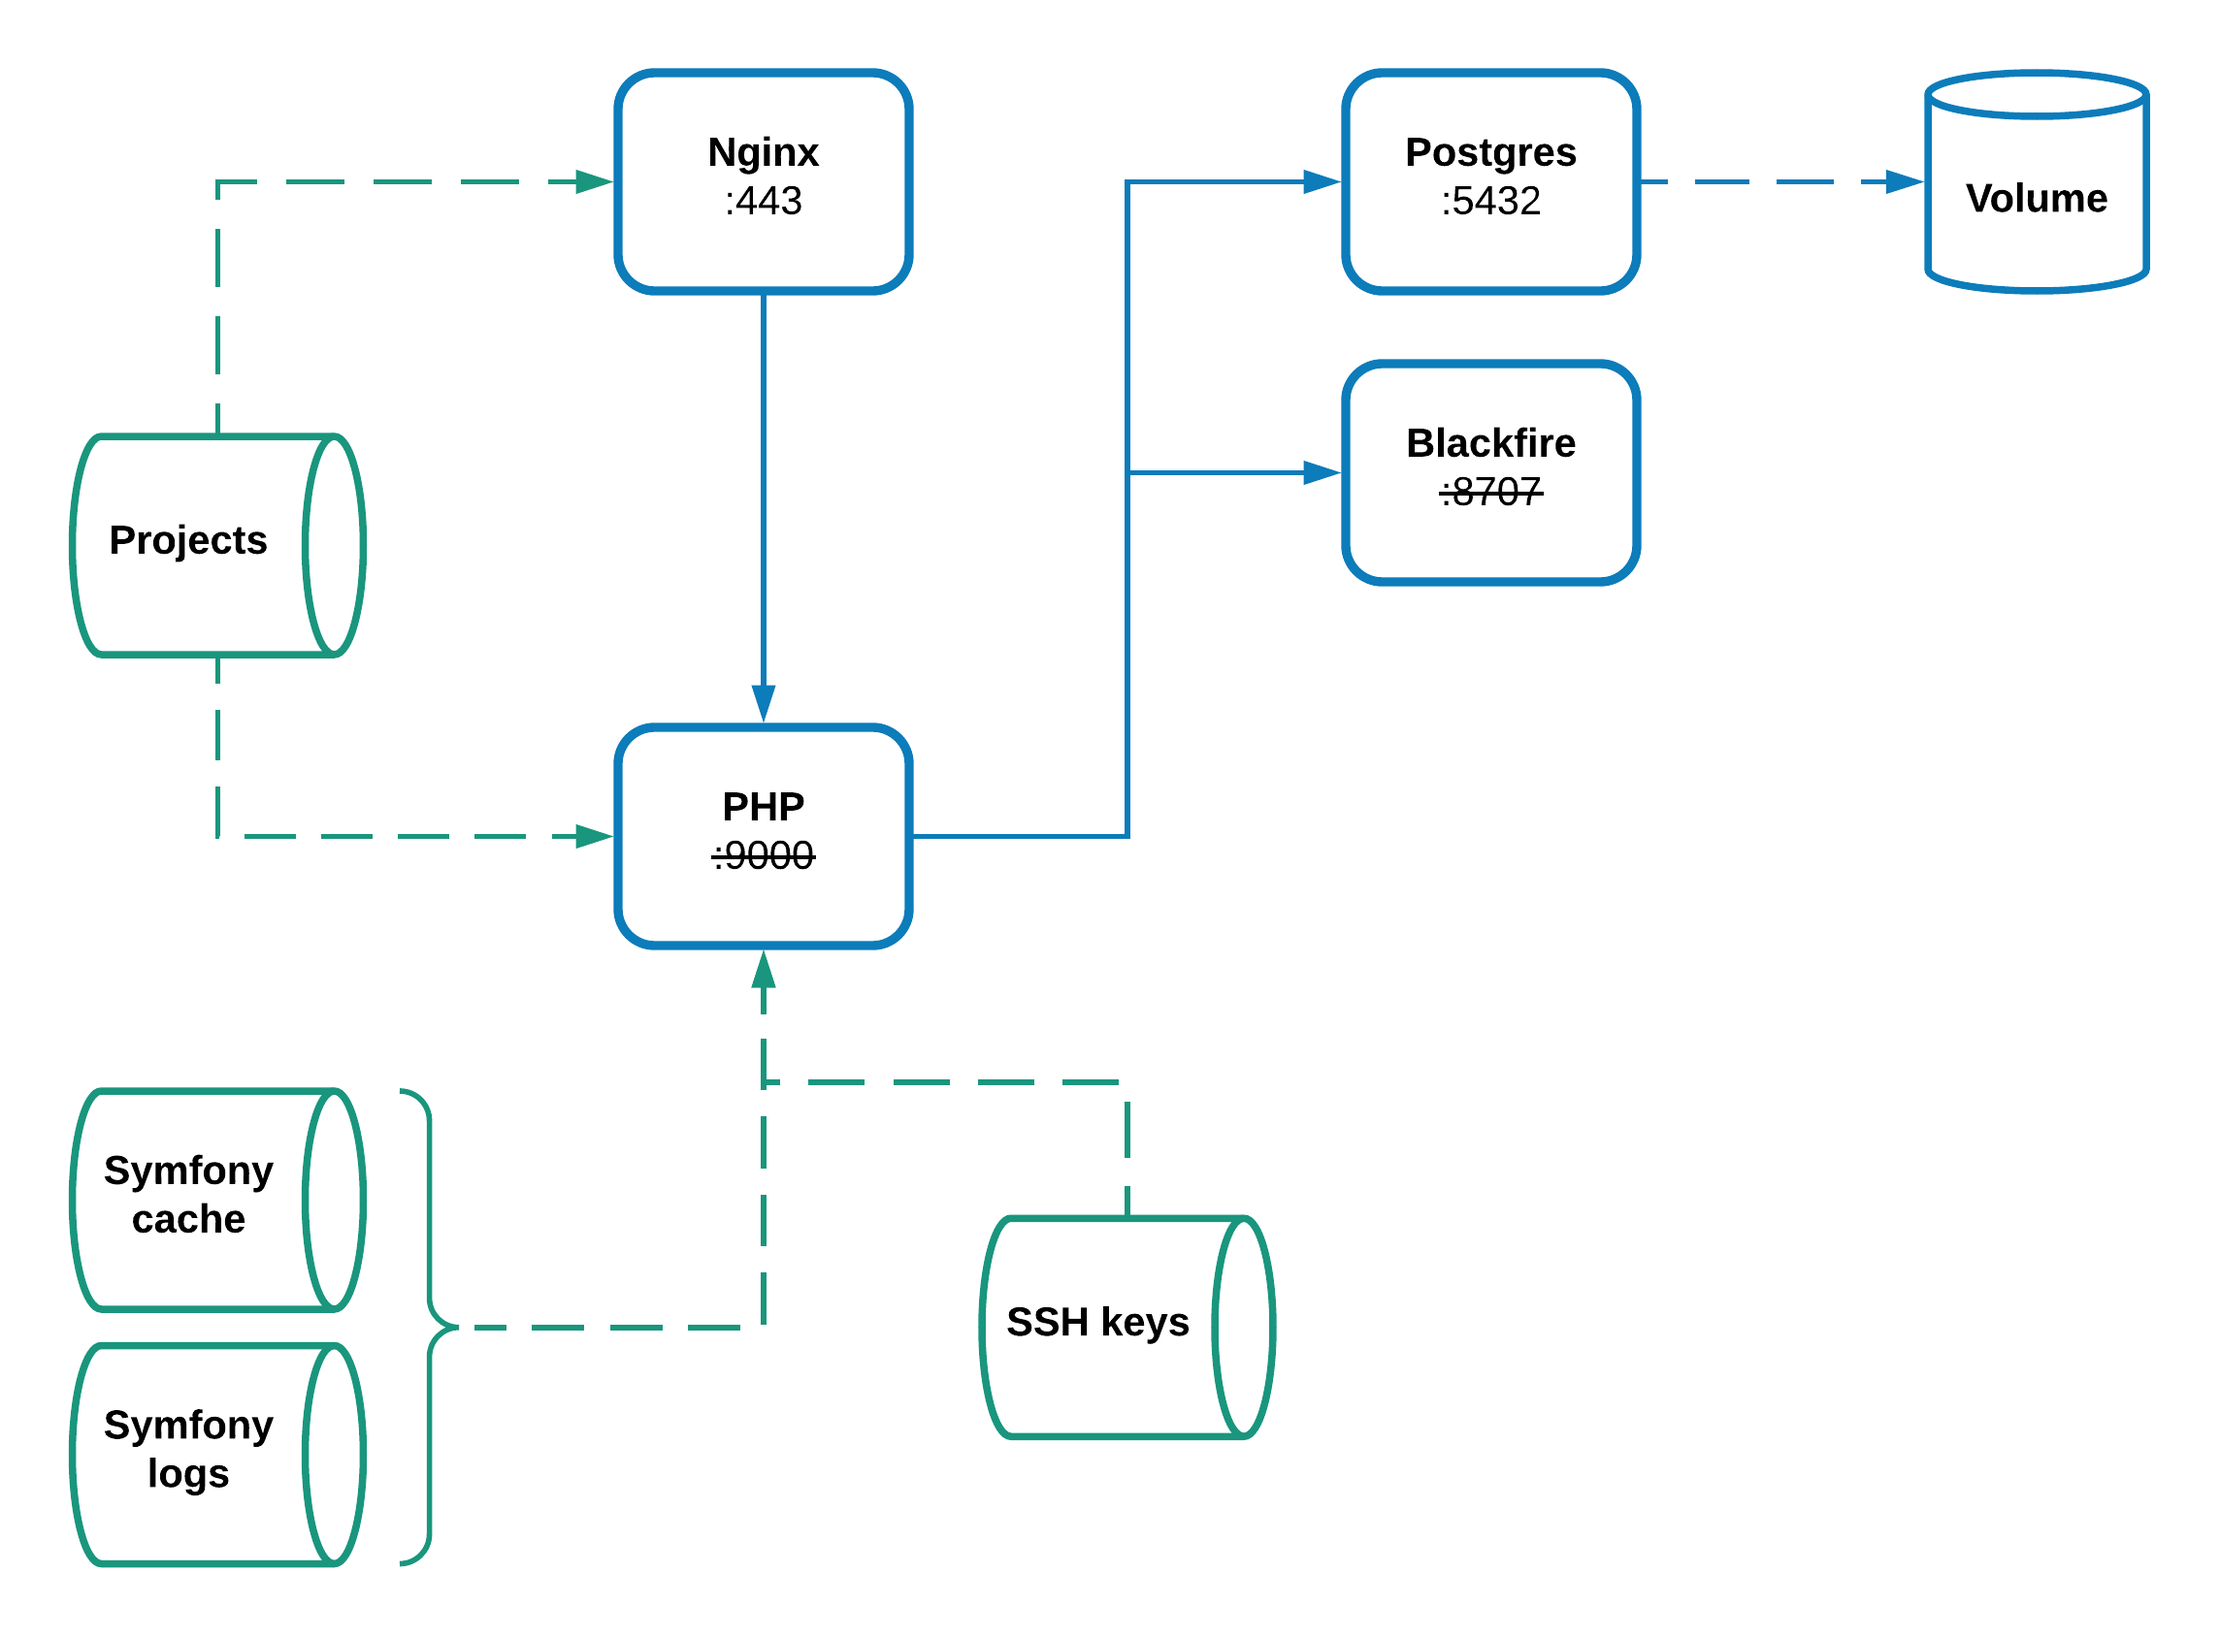
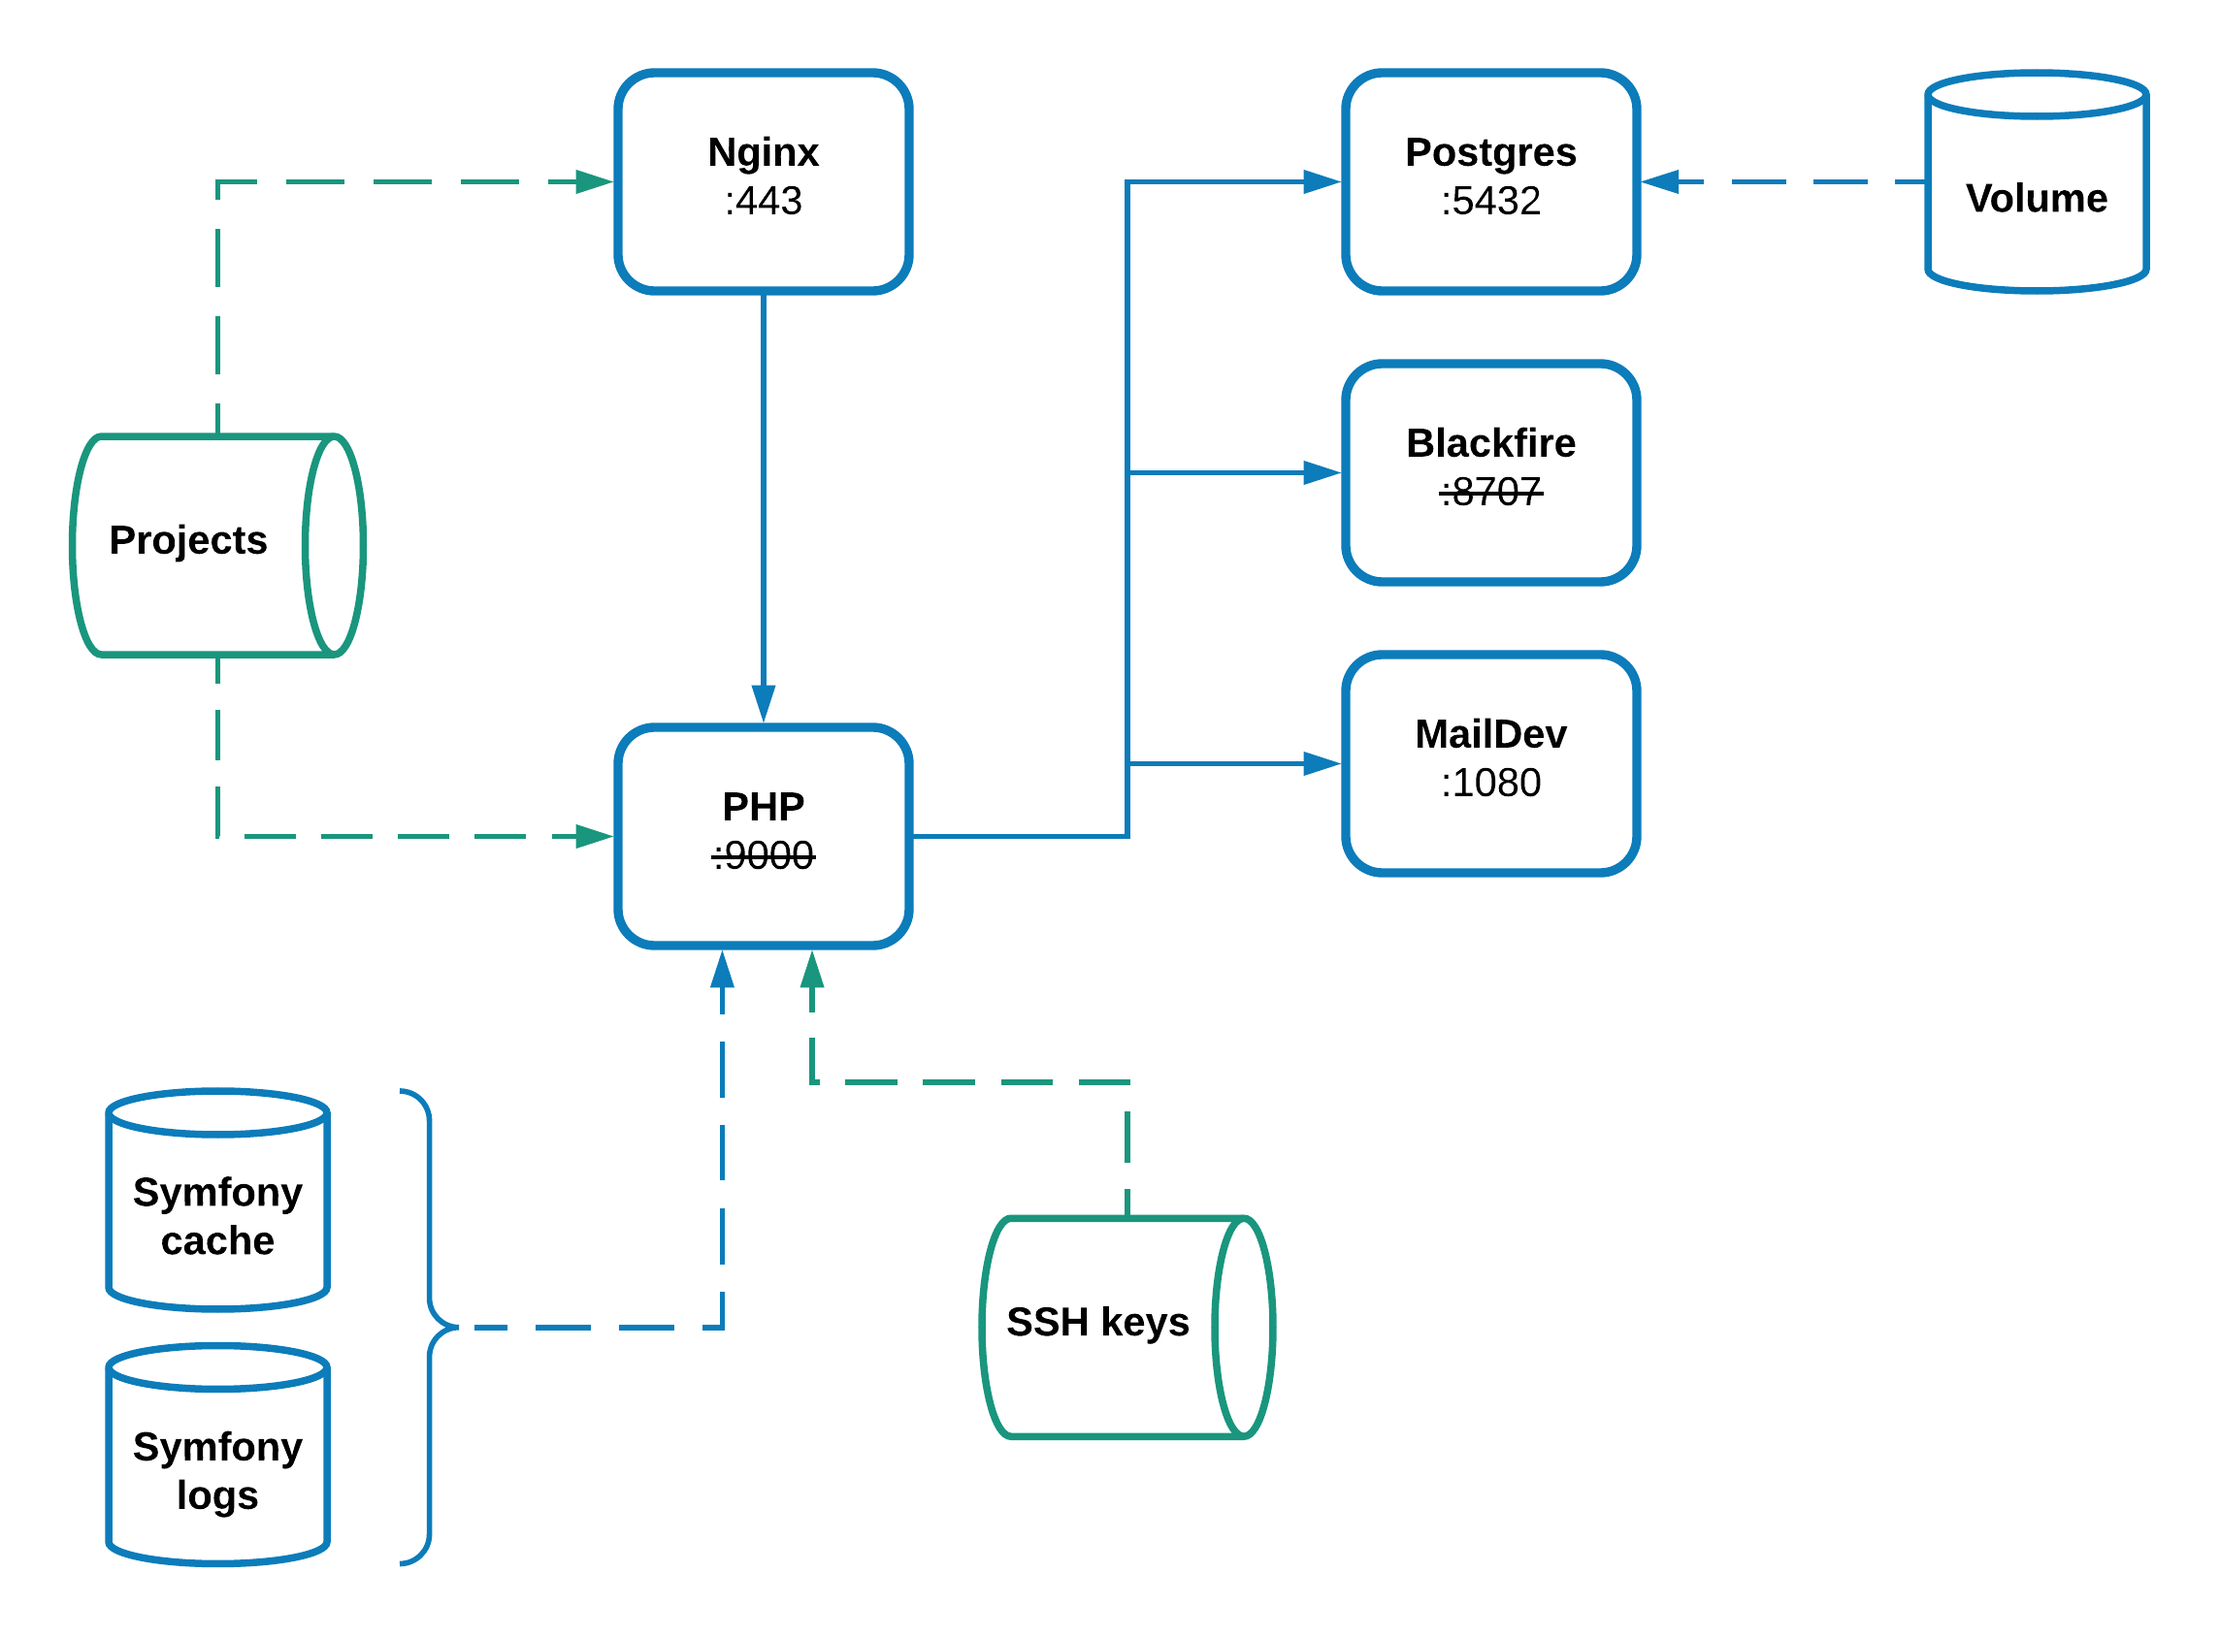
Add the MailDev service

diff --git a/README.md b/README.md
@@ -10,6 +10,7 @@ application. Thus, some services or configurations are not suitables for a produ
 
 ## Services
 * `blackfire`: [blackfire/blackfire:latest](https://hub.docker.com/r/blackfire/blackfire/) image (application profiling).
+* `maildev`: [djfarrelly/maildev:latest](https://hub.docker.com/r/djfarrelly/maildev/) (emails testing).
 * `nginx`: [nginx:1.15-alpine](nginx/Dockerfile) custom image with HTTPS (web server).
 * `php`: [php:7.2-fpm-alpine](php/Dockerfile) custom image with additional extensions and Composer.
 * `postgres`: [postgres:10-alpine](https://hub.docker.com/_/postgres/) image (database).
